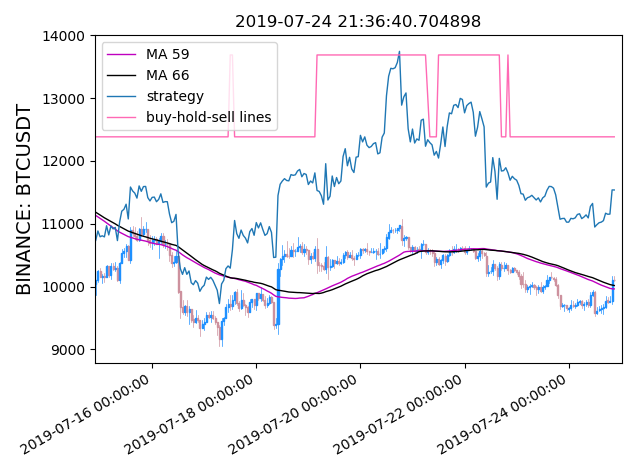
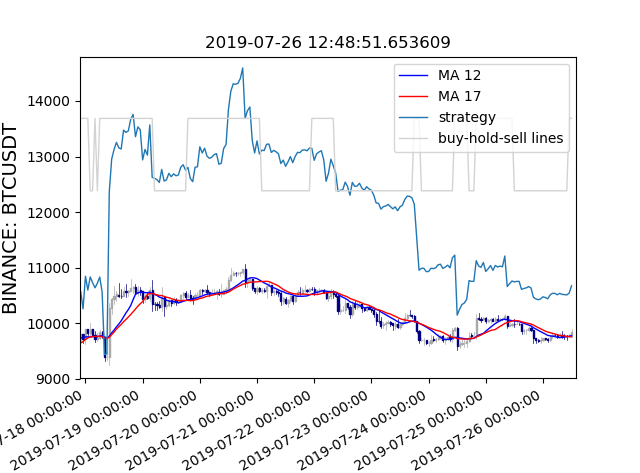
increase ease of plots

diff --git a/andrewsticks.py b/andrewsticks.py
@@ -24,7 +24,7 @@ import matplotlib.dates as mdates
 datenow = datetime.datetime.now()
 
 def chart(curr='BTC', invl='1M', weight='USDT',MAv1=0,MAv2=0,tol='',\
-          title=str(datenow),xaxis=''):
+          title=str(datenow),xaxis='',c_up='darkgray',c_dn='navy',c_ma1='blue',c_ma2='red'):
     
     
     quotes = brc.coindoll(curr, invl,weight)
@@ -46,14 +46,14 @@ def chart(curr='BTC', invl='1M', weight='USDT',MAv1=0,MAv2=0,tol='',\
                      else wadth*24*7*int(invl[:-1]) if invl[-1:] == 'w' \
                      else wadth*24*7*4*int(invl[:-1]) if invl[-1:] == 'M' \
                      else 0.001,\
-                     colorup='dodgerblue', colordown='#CD919E')
+                     colorup=c_up, colordown=c_dn)
 #                     colorup='dodgerblue', colordown='gray')
 
     m1=quotes['close'].rolling(MAv1).mean()
     m2=quotes['close'].rolling(MAv2).mean()
     if MAv1 != 0 and MAv2 != 0:
-        plt.plot(time,m1,label='MA {}'.format(MAv1),color='m',linewidth=1)
-        plt.plot(time,m2,label='MA {}'.format(MAv2),color='k',linewidth=1)
+        plt.plot(time,m1,label='MA {}'.format(MAv1),color=c_ma1,linewidth=1)
+        plt.plot(time,m2,label='MA {}'.format(MAv2),color=c_ma2,linewidth=1)
         plt.legend(title='tol: '+tol if tol !='' else None)
     
     
@@ -68,4 +68,4 @@ def chart(curr='BTC', invl='1M', weight='USDT',MAv1=0,MAv2=0,tol='',\
 #    plt.show()
     
     
-#chart(invl='1w')
+chart(invl='1h')

diff --git a/backtest_simple.py b/backtest_simple.py
@@ -19,11 +19,12 @@ import datetime as dt
 #from cryptoreader import *
 from binancereader import *
 #from plotly_plots import plyfin
+from andrewsticks import chart
 
 
 'moving averages to compare against'
-MA1 = 59
-MA2 = 66
+MA1 = 12
+MA2 = 17
 
 'tolerance for moving avg. comparison / regime determination'
 SD = 0.1
@@ -157,7 +158,7 @@ def newplt():
     quotes = coindoll(ticker_name, intl,weight='USDT')
     time = mdates.epoch2num(quotes['open_time']*1e-3 - 14400)
     plt.plot(time,hist_data['strategy return'],linewidth=1,label='strategy')
-    plt.plot(time,hist_data['buy hold sell'],color='hotpink',linewidth=1,label='buy-hold-sell lines')
+    plt.plot(time,hist_data['buy hold sell'],color='lightgray',linewidth=1,label='buy-hold-sell lines')
 #    plt.suptitle('Technical analysis')
     plt.legend()
 
